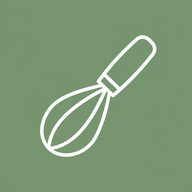
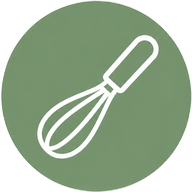
Add files via upload

diff --git a/sw.js b/sw.js
@@ -1,4 +1,4 @@
-const CACHE_NAME = 'runwaychef-public-cache-v395';
+const CACHE_NAME = 'runwaychef-public-cache-v397';
 const ASSETS = [
   './index.html',
   './i18n-core.js',
